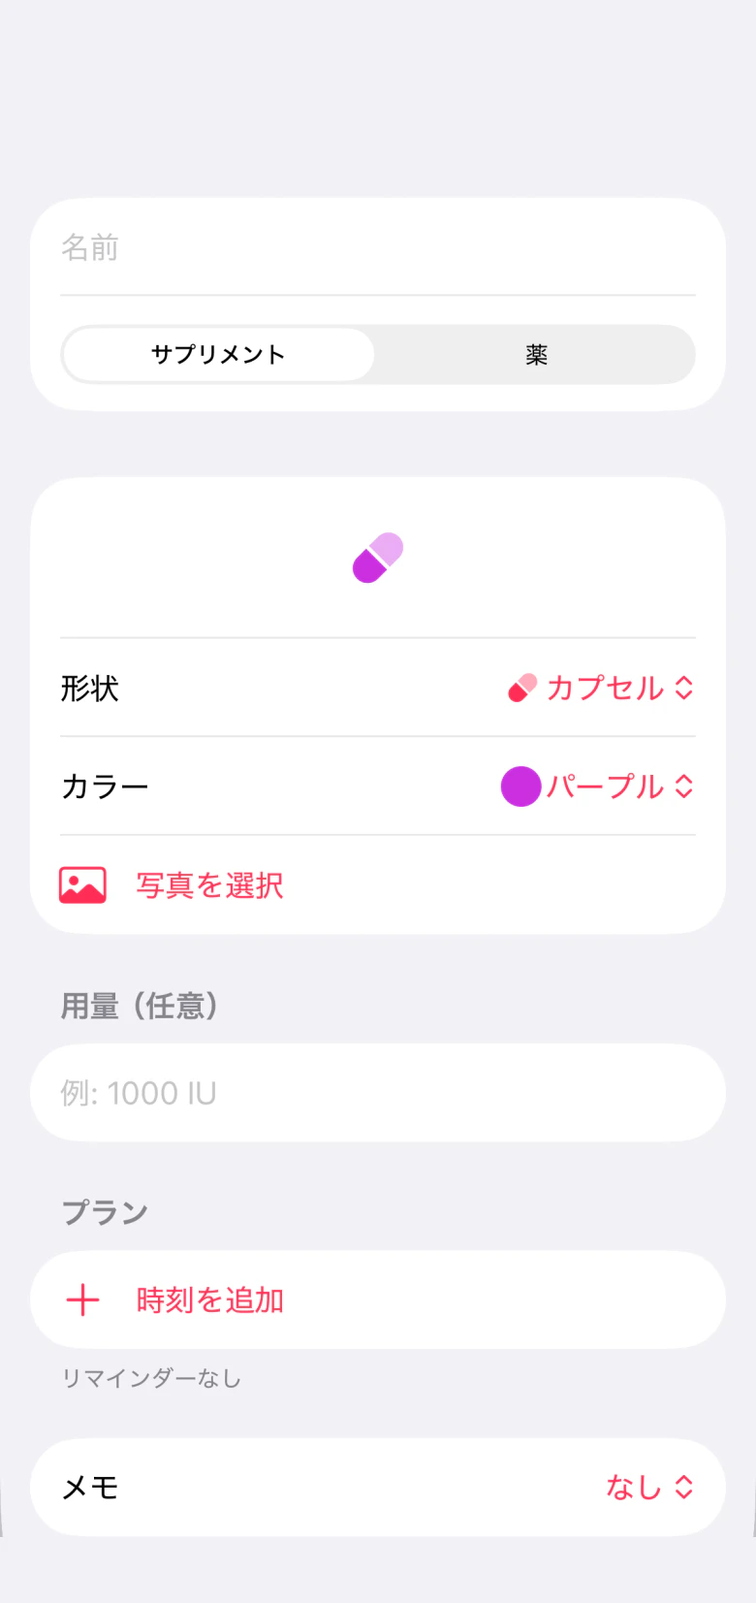
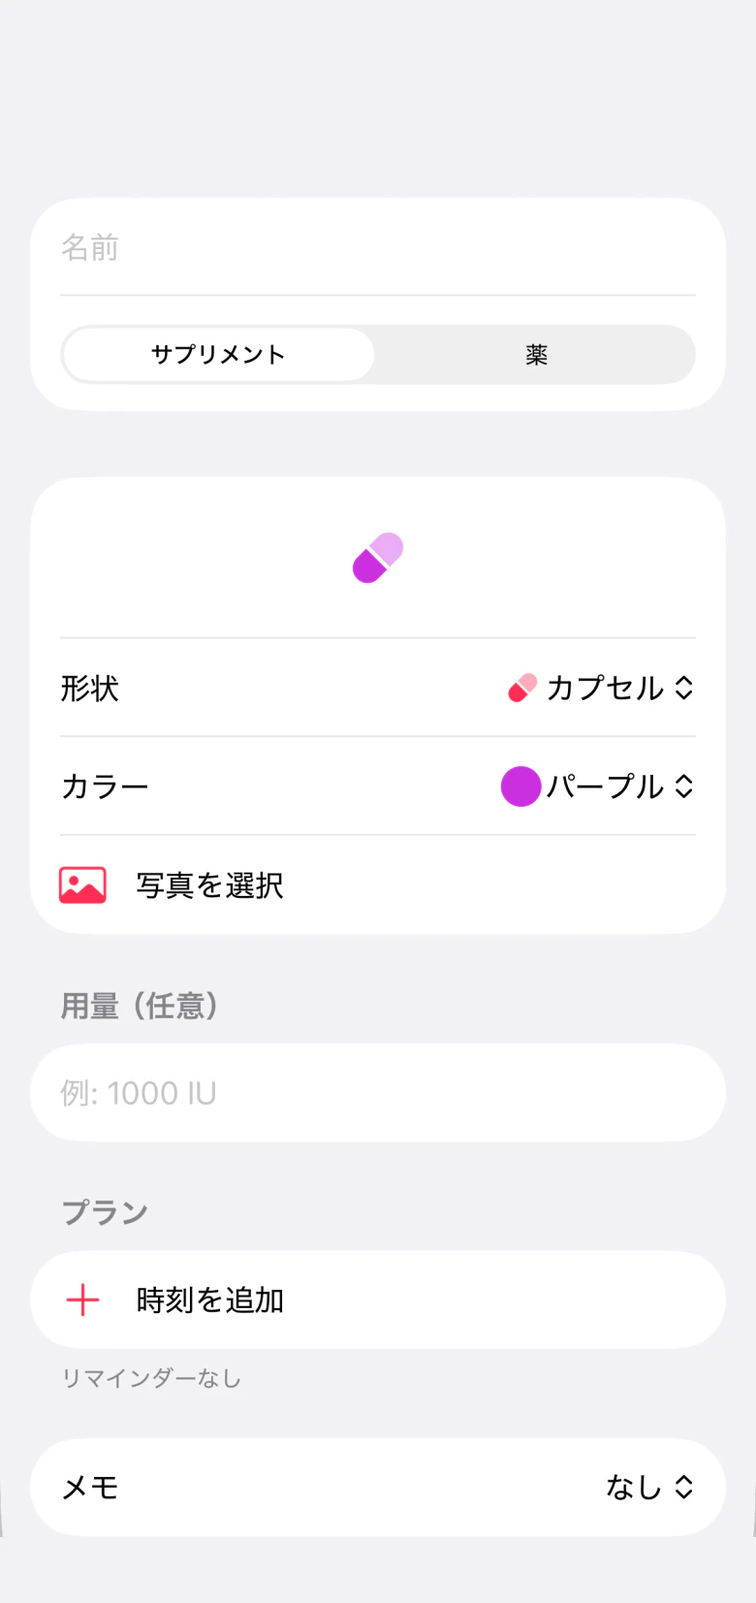
Match the site to the app after the row text and widget changes (#66)
- Draw the Today widget with the progress bar of the day (96 x 8 pt, no text) in place of the count. The columns end at the bottom edge.
- Rebuild the README pictures with site/social.py.
- Capture Settings and Add Item again in six languages: row text uses the text color, and Settings has no test notification row.

diff --git a/site/jp/index.html b/site/jp/index.html
@@ -60,7 +60,7 @@
 </div>
 </section>
 <div class="wrap features">
-<article class="feature" data-reveal><div class="feature-copy"><h2 class="enter"><span class="nb">時間にお知らせ、</span><span class="nb">今日をひと目で</span></h2><p class="lede enter d1">決めた時間にMaruがお知らせし、今日の様子はウィジェットでわかります。</p></div><div class="feature-stage"><div class="wallpaper"><div class="mock mock-widget enter d2" role="img" aria-label="Maruの「今日」ウィジェット。5件中2件が服用済みで、朝・昼・夜に分かれています。"><div class="m-widget"><div class="m-widget-top"><b>今日</b><b>2/5</b></div><div class="m-cols"><div class="m-col"><b>朝</b><span class="m-time">7:00</span><span class="m-caps"><i class="on"></i><i class="on"></i></span></div><div class="m-col"><b class="now">昼</b><span class="m-time">12:30</span><span class="m-caps"><i class=""></i></span></div><div class="m-col"><b>夜</b><span class="m-time">21:00</span><span class="m-caps"><i class=""></i><i class=""></i></span></div></div></div></div><div class="mock mock-notification enter d3" role="img" aria-label="ビタミンD3を飲む時間を知らせるMaruのリマインダー。"><div class="m-notif"><span class="m-app-icon"></span><span class="m-notif-text"><span class="m-notif-top"><b>服用の時間です</b><span class="m-now">今</span></span><span class="m-body">ビタミンD3</span></span></div></div></div></div></article>
+<article class="feature" data-reveal><div class="feature-copy"><h2 class="enter"><span class="nb">時間にお知らせ、</span><span class="nb">今日をひと目で</span></h2><p class="lede enter d1">決めた時間にMaruがお知らせし、今日の様子はウィジェットでわかります。</p></div><div class="feature-stage"><div class="wallpaper"><div class="mock mock-widget enter d2" role="img" aria-label="Maruの「今日」ウィジェット。5件中2件が服用済みで、朝・昼・夜に分かれています。"><div class="m-widget"><div class="m-widget-top"><b>今日</b><span class="m-bar"><i style="width:40%"></i></span></div><div class="m-cols"><div class="m-col"><b>朝</b><span class="m-time">7:00</span><span class="m-caps"><i class="on"></i><i class="on"></i></span></div><div class="m-col"><b class="now">昼</b><span class="m-time">12:30</span><span class="m-caps"><i class=""></i></span></div><div class="m-col"><b>夜</b><span class="m-time">21:00</span><span class="m-caps"><i class=""></i><i class=""></i></span></div></div></div></div><div class="mock mock-notification enter d3" role="img" aria-label="ビタミンD3を飲む時間を知らせるMaruのリマインダー。"><div class="m-notif"><span class="m-app-icon"></span><span class="m-notif-text"><span class="m-notif-top"><b>服用の時間です</b><span class="m-now">今</span></span><span class="m-body">ビタミンD3</span></span></div></div></div></div></article>
 <article class="feature flip" data-reveal><div class="feature-copy"><h2 class="enter">飲んだ記録がひと目で</h2><p class="lede enter d1">数か月分の記録も、項目ごとの過去7日間もすぐ見られます。</p></div><div class="feature-stage enter d2"><div class="device"><div class="device-screen"><img src="/shots/history-ja.webp" width="780" height="1696" loading="lazy" decoding="async" alt="Maruの「履歴」画面。これまでの日々のグラフと、各項目の過去7日間が表示されています。"></div><span class="island" aria-hidden="true"></span></div></div></article>
 <article class="feature" data-reveal><div class="feature-copy"><h2 class="enter">時間と量をすぐ確認</h2><p class="lede enter d1">時刻、量、過去7日間をまとめて確認できます。</p></div><div class="feature-stage enter d2"><div class="device"><div class="device-screen"><img src="/shots/detail-ja.webp" width="780" height="1696" loading="lazy" decoding="async" alt="Maruの項目のページ。時刻、量、過去7日間が表示されています。"></div><span class="island" aria-hidden="true"></span></div></div></article>
 <article class="feature flip" data-reveal><div class="feature-copy"><h2 class="enter"><span class="nb">いつものボトルを</span><span class="nb">アイコンに</span></h2><p class="lede enter d1">自分のボトルの写真を撮るか選ぶと、その項目のアイコンになります。背景はiPhoneやiPadの中で取り除けて、写真はデバイスの外に出ません。</p></div><div class="feature-stage enter d2"><div class="jars" role="img" aria-label="架空のラベルが付いたサプリメントのボトル3つ。切り抜いて、Maruの項目アイコンにしたところ。"><img src="/shots/jar-omega3.webp" width="372" height="480" loading="lazy" decoding="async" alt=""><img src="/shots/jar-vitd3.webp" width="407" height="480" loading="lazy" decoding="async" alt=""><img src="/shots/jar-magnesium.webp" width="413" height="480" loading="lazy" decoding="async" alt=""></div></div></article>

diff --git a/site/kr/index.html b/site/kr/index.html
@@ -60,7 +60,7 @@
 </div>
 </section>
 <div class="wrap features">
-<article class="feature" data-reveal><div class="feature-copy"><h2 class="enter">알림 받고, 오늘을 한눈에</h2><p class="lede enter d1">내가 정한 시간에 Maru가 알려 주고, 위젯에서 오늘 하루를 볼 수 있어요.</p></div><div class="feature-stage"><div class="wallpaper"><div class="mock mock-widget enter d2" role="img" aria-label="Maru의 오늘 위젯. 5개 중 2개를 복용했고 아침, 점심, 저녁으로 나뉘어 있어요."><div class="m-widget"><div class="m-widget-top"><b>오늘</b><b>2/5</b></div><div class="m-cols"><div class="m-col"><b>아침</b><span class="m-time">오전 7:00</span><span class="m-caps"><i class="on"></i><i class="on"></i></span></div><div class="m-col"><b class="now">점심</b><span class="m-time">오후 12:30</span><span class="m-caps"><i class=""></i></span></div><div class="m-col"><b>저녁</b><span class="m-time">오후 9:00</span><span class="m-caps"><i class=""></i><i class=""></i></span></div></div></div></div><div class="mock mock-notification enter d3" role="img" aria-label="비타민 D3 먹을 시간을 알리는 Maru 미리 알림."><div class="m-notif"><span class="m-app-icon"></span><span class="m-notif-text"><span class="m-notif-top"><b>복용할 시간</b><span class="m-now">지금</span></span><span class="m-body">비타민 D3</span></span></div></div></div></div></article>
+<article class="feature" data-reveal><div class="feature-copy"><h2 class="enter">알림 받고, 오늘을 한눈에</h2><p class="lede enter d1">내가 정한 시간에 Maru가 알려 주고, 위젯에서 오늘 하루를 볼 수 있어요.</p></div><div class="feature-stage"><div class="wallpaper"><div class="mock mock-widget enter d2" role="img" aria-label="Maru의 오늘 위젯. 5개 중 2개를 복용했고 아침, 점심, 저녁으로 나뉘어 있어요."><div class="m-widget"><div class="m-widget-top"><b>오늘</b><span class="m-bar"><i style="width:40%"></i></span></div><div class="m-cols"><div class="m-col"><b>아침</b><span class="m-time">오전 7:00</span><span class="m-caps"><i class="on"></i><i class="on"></i></span></div><div class="m-col"><b class="now">점심</b><span class="m-time">오후 12:30</span><span class="m-caps"><i class=""></i></span></div><div class="m-col"><b>저녁</b><span class="m-time">오후 9:00</span><span class="m-caps"><i class=""></i><i class=""></i></span></div></div></div></div><div class="mock mock-notification enter d3" role="img" aria-label="비타민 D3 먹을 시간을 알리는 Maru 미리 알림."><div class="m-notif"><span class="m-app-icon"></span><span class="m-notif-text"><span class="m-notif-top"><b>복용할 시간</b><span class="m-now">지금</span></span><span class="m-body">비타민 D3</span></span></div></div></div></div></article>
 <article class="feature flip" data-reveal><div class="feature-copy"><h2 class="enter">먹은 기록을 한눈에</h2><p class="lede enter d1">몇 달 치 기록도, 항목별 최근 7일도 바로 볼 수 있어요.</p></div><div class="feature-stage enter d2"><div class="device"><div class="device-screen"><img src="/shots/history-ko.webp" width="780" height="1696" loading="lazy" decoding="async" alt="지난 날들의 그래프와 항목별 최근 7일이 보이는 Maru의 내역 화면."></div><span class="island" aria-hidden="true"></span></div></div></article>
 <article class="feature" data-reveal><div class="feature-copy"><h2 class="enter">시간과 용량을 한눈에</h2><p class="lede enter d1">시간, 용량, 최근 7일을 한곳에서 확인해요.</p></div><div class="feature-stage enter d2"><div class="device"><div class="device-screen"><img src="/shots/detail-ko.webp" width="780" height="1696" loading="lazy" decoding="async" alt="시간, 용량, 최근 7일이 보이는 Maru의 항목 페이지."></div><span class="island" aria-hidden="true"></span></div></div></article>
 <article class="feature flip" data-reveal><div class="feature-copy"><h2 class="enter"><span class="nb">내 약통을 그대로</span> <span class="nb">아이콘으로</span></h2><p class="lede enter d1">내 약통 사진을 찍거나 고르면 그 항목의 아이콘이 돼요. 배경은 iPhone이나 iPad 안에서 지울 수 있고, 사진은 기기 밖으로 나가지 않아요.</p></div><div class="feature-stage enter d2"><div class="jars" role="img" aria-label="가상의 라벨을 붙인 영양제 통 세 개를 오려 Maru의 항목 아이콘으로 쓴 모습."><img src="/shots/jar-omega3.webp" width="372" height="480" loading="lazy" decoding="async" alt=""><img src="/shots/jar-vitd3.webp" width="407" height="480" loading="lazy" decoding="async" alt=""><img src="/shots/jar-magnesium.webp" width="413" height="480" loading="lazy" decoding="async" alt=""></div></div></article>

diff --git a/site/cn/index.html b/site/cn/index.html
@@ -60,7 +60,7 @@
 </div>
 </section>
 <div class="wrap features">
-<article class="feature" data-reveal><div class="feature-copy"><h2 class="enter">到点提醒，一眼看全</h2><p class="lede enter d1">Maru 按你定的时间提醒，小组件上能看到今天的情况。</p></div><div class="feature-stage"><div class="wallpaper"><div class="mock mock-widget enter d2" role="img" aria-label="Maru 的“今天”小组件：5 项里已服用 2 项，分为早上、中午和晚上。"><div class="m-widget"><div class="m-widget-top"><b>今天</b><b>2/5</b></div><div class="m-cols"><div class="m-col"><b>早上</b><span class="m-time">7:00</span><span class="m-caps"><i class="on"></i><i class="on"></i></span></div><div class="m-col"><b class="now">中午</b><span class="m-time">12:30</span><span class="m-caps"><i class=""></i></span></div><div class="m-col"><b>晚上</b><span class="m-time">21:00</span><span class="m-caps"><i class=""></i><i class=""></i></span></div></div></div></div><div class="mock mock-notification enter d3" role="img" aria-label="Maru 的提醒：该吃维生素 D3 了。"><div class="m-notif"><span class="m-app-icon"></span><span class="m-notif-text"><span class="m-notif-top"><b>该服用了</b><span class="m-now">现在</span></span><span class="m-body">维生素 D3</span></span></div></div></div></div></article>
+<article class="feature" data-reveal><div class="feature-copy"><h2 class="enter">到点提醒，一眼看全</h2><p class="lede enter d1">Maru 按你定的时间提醒，小组件上能看到今天的情况。</p></div><div class="feature-stage"><div class="wallpaper"><div class="mock mock-widget enter d2" role="img" aria-label="Maru 的“今天”小组件：5 项里已服用 2 项，分为早上、中午和晚上。"><div class="m-widget"><div class="m-widget-top"><b>今天</b><span class="m-bar"><i style="width:40%"></i></span></div><div class="m-cols"><div class="m-col"><b>早上</b><span class="m-time">7:00</span><span class="m-caps"><i class="on"></i><i class="on"></i></span></div><div class="m-col"><b class="now">中午</b><span class="m-time">12:30</span><span class="m-caps"><i class=""></i></span></div><div class="m-col"><b>晚上</b><span class="m-time">21:00</span><span class="m-caps"><i class=""></i><i class=""></i></span></div></div></div></div><div class="mock mock-notification enter d3" role="img" aria-label="Maru 的提醒：该吃维生素 D3 了。"><div class="m-notif"><span class="m-app-icon"></span><span class="m-notif-text"><span class="m-notif-top"><b>该服用了</b><span class="m-now">现在</span></span><span class="m-body">维生素 D3</span></span></div></div></div></div></article>
 <article class="feature flip" data-reveal><div class="feature-copy"><h2 class="enter">吃过什么，一目了然</h2><p class="lede enter d1">几个月的记录一眼看完，每个项目的最近 7 天也在这里。</p></div><div class="feature-stage enter d2"><div class="device"><div class="device-screen"><img src="/shots/history-zh-Hans.webp" width="780" height="1696" loading="lazy" decoding="async" alt="Maru 的“历史记录”界面，有过去每一天的图表和每个项目最近 7 天的记录。"></div><span class="island" aria-hidden="true"></span></div></div></article>
 <article class="feature" data-reveal><div class="feature-copy"><h2 class="enter">时间和用量，一页看清</h2><p class="lede enter d1">时间、用量和最近 7 天，都在这一页。</p></div><div class="feature-stage enter d2"><div class="device"><div class="device-screen"><img src="/shots/detail-zh-Hans.webp" width="780" height="1696" loading="lazy" decoding="async" alt="Maru 中一个项目的页面，有时间、用量和最近 7 天的记录。"></div><span class="island" aria-hidden="true"></span></div></div></article>
 <article class="feature flip" data-reveal><div class="feature-copy"><h2 class="enter"><span class="nb">你的药瓶，</span><span class="nb">就是图标</span></h2><p class="lede enter d1">拍一张或选一张自己药瓶的照片，它就成了这个项目的图标。Maru 可以直接在你的 iPhone 或 iPad 上去掉背景，照片只留在你的设备里。</p></div><div class="feature-stage enter d2"><div class="jars" role="img" aria-label="三个贴着虚构标签的保健品瓶，抠图后成为 Maru 里的项目图标。"><img src="/shots/jar-omega3.webp" width="372" height="480" loading="lazy" decoding="async" alt=""><img src="/shots/jar-vitd3.webp" width="407" height="480" loading="lazy" decoding="async" alt=""><img src="/shots/jar-magnesium.webp" width="413" height="480" loading="lazy" decoding="async" alt=""></div></div></article>

diff --git a/site/de/index.html b/site/de/index.html
@@ -60,7 +60,7 @@
 </div>
 </section>
 <div class="wrap features">
-<article class="feature" data-reveal><div class="feature-copy"><h2 class="enter">Erinnerung und Überblick</h2><p class="lede enter d1">Maru erinnert dich zu deinen Zeiten, und das Widget zeigt deinen Tag.</p></div><div class="feature-stage"><div class="wallpaper"><div class="mock mock-widget enter d2" role="img" aria-label="Das Maru-Widget „Heute“: 2 von 5 eingenommen, mit Morgens, Mittags und Abends."><div class="m-widget"><div class="m-widget-top"><b>Heute</b><b>2 von 5</b></div><div class="m-cols"><div class="m-col"><b>Morgens</b><span class="m-time">7:00</span><span class="m-caps"><i class="on"></i><i class="on"></i></span></div><div class="m-col"><b class="now">Mittags</b><span class="m-time">12:30</span><span class="m-caps"><i class=""></i></span></div><div class="m-col"><b>Abends</b><span class="m-time">21:00</span><span class="m-caps"><i class=""></i><i class=""></i></span></div></div></div></div><div class="mock mock-notification enter d3" role="img" aria-label="Eine Erinnerung von Maru an Vitamin D3."><div class="m-notif"><span class="m-app-icon"></span><span class="m-notif-text"><span class="m-notif-top"><b>Zeit zur Einnahme</b><span class="m-now">Jetzt</span></span><span class="m-body">Vitamin D3</span></span></div></div></div></div></article>
+<article class="feature" data-reveal><div class="feature-copy"><h2 class="enter">Erinnerung und Überblick</h2><p class="lede enter d1">Maru erinnert dich zu deinen Zeiten, und das Widget zeigt deinen Tag.</p></div><div class="feature-stage"><div class="wallpaper"><div class="mock mock-widget enter d2" role="img" aria-label="Das Maru-Widget „Heute“: 2 von 5 eingenommen, mit Morgens, Mittags und Abends."><div class="m-widget"><div class="m-widget-top"><b>Heute</b><span class="m-bar"><i style="width:40%"></i></span></div><div class="m-cols"><div class="m-col"><b>Morgens</b><span class="m-time">7:00</span><span class="m-caps"><i class="on"></i><i class="on"></i></span></div><div class="m-col"><b class="now">Mittags</b><span class="m-time">12:30</span><span class="m-caps"><i class=""></i></span></div><div class="m-col"><b>Abends</b><span class="m-time">21:00</span><span class="m-caps"><i class=""></i><i class=""></i></span></div></div></div></div><div class="mock mock-notification enter d3" role="img" aria-label="Eine Erinnerung von Maru an Vitamin D3."><div class="m-notif"><span class="m-app-icon"></span><span class="m-notif-text"><span class="m-notif-top"><b>Zeit zur Einnahme</b><span class="m-now">Jetzt</span></span><span class="m-body">Vitamin D3</span></span></div></div></div></div></article>
 <article class="feature flip" data-reveal><div class="feature-copy"><h2 class="enter">Sieh, was du genommen hast</h2><p class="lede enter d1">Ganze Monate auf einen Blick, dazu die letzten sieben Tage jedes Eintrags.</p></div><div class="feature-stage enter d2"><div class="device"><div class="device-screen"><img src="/shots/history-de.webp" width="780" height="1696" loading="lazy" decoding="async" alt="Die Ansicht „Verlauf“ in Maru mit einer Grafik der vergangenen Tage und den letzten 7 Tagen jedes Eintrags."></div><span class="island" aria-hidden="true"></span></div></div></article>
 <article class="feature" data-reveal><div class="feature-copy"><h2 class="enter">Zeiten und Mengen im Blick</h2><p class="lede enter d1">Dort stehen die Zeiten, die Menge und die letzten sieben Tage.</p></div><div class="feature-stage enter d2"><div class="device"><div class="device-screen"><img src="/shots/detail-de.webp" width="780" height="1696" loading="lazy" decoding="async" alt="Die Seite eines Eintrags in Maru mit Zeiten, Menge und den letzten 7 Tagen."></div><span class="island" aria-hidden="true"></span></div></div></article>
 <article class="feature flip" data-reveal><div class="feature-copy"><h2 class="enter"><span class="nb">Deine Dose</span> <span class="nb">als Symbol</span></h2><p class="lede enter d1">Mach oder wähle ein Foto deiner eigenen Dose, und es wird zum Symbol des Eintrags. Maru kann den Hintergrund auf deinem iPhone oder iPad entfernen, und das Foto bleibt auf deinem Gerät.</p></div><div class="feature-stage enter d2"><div class="jars" role="img" aria-label="Drei Nahrungsergänzungsdosen mit erfundenen Etiketten, freigestellt als Symbole von Einträgen in Maru."><img src="/shots/jar-omega3.webp" width="372" height="480" loading="lazy" decoding="async" alt=""><img src="/shots/jar-vitd3.webp" width="407" height="480" loading="lazy" decoding="async" alt=""><img src="/shots/jar-magnesium.webp" width="413" height="480" loading="lazy" decoding="async" alt=""></div></div></article>

diff --git a/site/es/index.html b/site/es/index.html
@@ -60,7 +60,7 @@
 </div>
 </section>
 <div class="wrap features">
-<article class="feature" data-reveal><div class="feature-copy"><h2 class="enter">Recordatorios y tu día de un vistazo</h2><p class="lede enter d1">Maru te avisa a tus horas, y el widget muestra tu día.</p></div><div class="feature-stage"><div class="wallpaper"><div class="mock mock-widget enter d2" role="img" aria-label="El widget Hoy de Maru: 2 de 5 tomados, con Mañana, Mediodía y Noche."><div class="m-widget"><div class="m-widget-top"><b>Hoy</b><b>2 de 5</b></div><div class="m-cols"><div class="m-col"><b>Mañana</b><span class="m-time">7:00</span><span class="m-caps"><i class="on"></i><i class="on"></i></span></div><div class="m-col"><b class="now">Mediodía</b><span class="m-time">12:30</span><span class="m-caps"><i class=""></i></span></div><div class="m-col"><b>Noche</b><span class="m-time">21:00</span><span class="m-caps"><i class=""></i><i class=""></i></span></div></div></div></div><div class="mock mock-notification enter d3" role="img" aria-label="Un recordatorio de Maru para tomar la vitamina D3."><div class="m-notif"><span class="m-app-icon"></span><span class="m-notif-text"><span class="m-notif-top"><b>Hora de tomar</b><span class="m-now">ahora</span></span><span class="m-body">Vitamina D3</span></span></div></div></div></div></article>
+<article class="feature" data-reveal><div class="feature-copy"><h2 class="enter">Recordatorios y tu día de un vistazo</h2><p class="lede enter d1">Maru te avisa a tus horas, y el widget muestra tu día.</p></div><div class="feature-stage"><div class="wallpaper"><div class="mock mock-widget enter d2" role="img" aria-label="El widget Hoy de Maru: 2 de 5 tomados, con Mañana, Mediodía y Noche."><div class="m-widget"><div class="m-widget-top"><b>Hoy</b><span class="m-bar"><i style="width:40%"></i></span></div><div class="m-cols"><div class="m-col"><b>Mañana</b><span class="m-time">7:00</span><span class="m-caps"><i class="on"></i><i class="on"></i></span></div><div class="m-col"><b class="now">Mediodía</b><span class="m-time">12:30</span><span class="m-caps"><i class=""></i></span></div><div class="m-col"><b>Noche</b><span class="m-time">21:00</span><span class="m-caps"><i class=""></i><i class=""></i></span></div></div></div></div><div class="mock mock-notification enter d3" role="img" aria-label="Un recordatorio de Maru para tomar la vitamina D3."><div class="m-notif"><span class="m-app-icon"></span><span class="m-notif-text"><span class="m-notif-top"><b>Hora de tomar</b><span class="m-now">ahora</span></span><span class="m-body">Vitamina D3</span></span></div></div></div></div></article>
 <article class="feature flip" data-reveal><div class="feature-copy"><h2 class="enter">Mira lo que tomaste</h2><p class="lede enter d1">Meses enteros de un vistazo, y los últimos siete días de cada elemento.</p></div><div class="feature-stage enter d2"><div class="device"><div class="device-screen"><img src="/shots/history-es.webp" width="780" height="1696" loading="lazy" decoding="async" alt="La pantalla Historial de Maru con un gráfico de los días pasados y los últimos 7 días de cada elemento."></div><span class="island" aria-hidden="true"></span></div></div></article>
 <article class="feature" data-reveal><div class="feature-copy"><h2 class="enter">Consulta horas y cantidades</h2><p class="lede enter d1">Consulta sus horas, su cantidad y sus últimos siete días.</p></div><div class="feature-stage enter d2"><div class="device"><div class="device-screen"><img src="/shots/detail-es.webp" width="780" height="1696" loading="lazy" decoding="async" alt="La página de un elemento en Maru con sus horas, su cantidad y sus últimos 7 días."></div><span class="island" aria-hidden="true"></span></div></div></article>
 <article class="feature flip" data-reveal><div class="feature-copy"><h2 class="enter"><span class="nb">Tu frasco,</span> <span class="nb">tu icono</span></h2><p class="lede enter d1">Haz o elige una foto de tu propio frasco y será el icono del elemento. Maru puede quitar el fondo en tu iPhone o iPad, y la foto se queda en tu dispositivo.</p></div><div class="feature-stage enter d2"><div class="jars" role="img" aria-label="Tres frascos de suplementos con etiquetas inventadas, recortados como iconos de elementos en Maru."><img src="/shots/jar-omega3.webp" width="372" height="480" loading="lazy" decoding="async" alt=""><img src="/shots/jar-vitd3.webp" width="407" height="480" loading="lazy" decoding="async" alt=""><img src="/shots/jar-magnesium.webp" width="413" height="480" loading="lazy" decoding="async" alt=""></div></div></article>

diff --git a/site/index.html b/site/index.html
@@ -61,7 +61,7 @@
 </div>
 </section>
 <div class="wrap features">
-<article class="feature" data-reveal><div class="feature-copy"><h2 class="enter">Reminders and today at a glance</h2><p class="lede enter d1">Maru reminds you at your times, and the widget shows your day.</p></div><div class="feature-stage"><div class="wallpaper"><div class="mock mock-widget enter d2" role="img" aria-label="The Maru Today widget: 2 of 5 taken, with Morning, Noon, and Evening."><div class="m-widget"><div class="m-widget-top"><b>Today</b><b>2 of 5</b></div><div class="m-cols"><div class="m-col"><b>Morning</b><span class="m-time">7:00 AM</span><span class="m-caps"><i class="on"></i><i class="on"></i></span></div><div class="m-col"><b class="now">Noon</b><span class="m-time">12:30 PM</span><span class="m-caps"><i class=""></i></span></div><div class="m-col"><b>Evening</b><span class="m-time">9:00 PM</span><span class="m-caps"><i class=""></i><i class=""></i></span></div></div></div></div><div class="mock mock-notification enter d3" role="img" aria-label="A Maru reminder to take Vitamin D3."><div class="m-notif"><span class="m-app-icon"></span><span class="m-notif-text"><span class="m-notif-top"><b>Time to take</b><span class="m-now">now</span></span><span class="m-body">Vitamin D3</span></span></div></div></div></div></article>
+<article class="feature" data-reveal><div class="feature-copy"><h2 class="enter">Reminders and today at a glance</h2><p class="lede enter d1">Maru reminds you at your times, and the widget shows your day.</p></div><div class="feature-stage"><div class="wallpaper"><div class="mock mock-widget enter d2" role="img" aria-label="The Maru Today widget: 2 of 5 taken, with Morning, Noon, and Evening."><div class="m-widget"><div class="m-widget-top"><b>Today</b><span class="m-bar"><i style="width:40%"></i></span></div><div class="m-cols"><div class="m-col"><b>Morning</b><span class="m-time">7:00 AM</span><span class="m-caps"><i class="on"></i><i class="on"></i></span></div><div class="m-col"><b class="now">Noon</b><span class="m-time">12:30 PM</span><span class="m-caps"><i class=""></i></span></div><div class="m-col"><b>Evening</b><span class="m-time">9:00 PM</span><span class="m-caps"><i class=""></i><i class=""></i></span></div></div></div></div><div class="mock mock-notification enter d3" role="img" aria-label="A Maru reminder to take Vitamin D3."><div class="m-notif"><span class="m-app-icon"></span><span class="m-notif-text"><span class="m-notif-top"><b>Time to take</b><span class="m-now">now</span></span><span class="m-body">Vitamin D3</span></span></div></div></div></div></article>
 <article class="feature flip" data-reveal><div class="feature-copy"><h2 class="enter">See what you took</h2><p class="lede enter d1">See months at a glance, and the last seven days of every item.</p></div><div class="feature-stage enter d2"><div class="device"><div class="device-screen"><img src="/shots/history-en.webp" width="780" height="1696" loading="lazy" decoding="async" alt="The History screen of Maru with a graph of past days and the last 7 days of each item."></div><span class="island" aria-hidden="true"></span></div></div></article>
 <article class="feature" data-reveal><div class="feature-copy"><h2 class="enter">Check times and amounts</h2><p class="lede enter d1">See its times, its amount, and its last seven days.</p></div><div class="feature-stage enter d2"><div class="device"><div class="device-screen"><img src="/shots/detail-en.webp" width="780" height="1696" loading="lazy" decoding="async" alt="The page of one item in Maru with its times, its amount, and its last 7 days."></div><span class="island" aria-hidden="true"></span></div></div></article>
 <article class="feature flip" data-reveal><div class="feature-copy"><h2 class="enter">Your bottle, your icon</h2><p class="lede enter d1">Take or choose a photo of your own bottle, and it becomes the item icon. Maru can remove the background on your iPhone or iPad, and the photo stays on your device.</p></div><div class="feature-stage enter d2"><div class="jars" role="img" aria-label="Three supplement jars with made-up labels, cut out as item icons in Maru."><img src="/shots/jar-omega3.webp" width="372" height="480" loading="lazy" decoding="async" alt=""><img src="/shots/jar-vitd3.webp" width="407" height="480" loading="lazy" decoding="async" alt=""><img src="/shots/jar-magnesium.webp" width="413" height="480" loading="lazy" decoding="async" alt=""></div></div></article>

diff --git a/site/style.css b/site/style.css
@@ -32,6 +32,7 @@
   --app-label: #000000;
   --app-label-2: #8A8A8E;
   --app-widget: #FFFFFF;
+  --app-fill: rgba(120, 120, 128, 0.2);
   --app-cap-off: #E5E5EA;
   --app-cap-line: #C7C7CC;
   --app-cap-shine: rgba(255, 255, 255, 0.32);
@@ -469,11 +470,15 @@ code { font: var(--fs-code) var(--font-mono); background: var(--fill-3); padding
   background: var(--wallpaper); box-shadow: var(--hairline);
 }
 /* The medium Today widget (TodayWidget, CapsuleMark). */
-.m-widget { width: calc(349.33 * var(--pt)); height: calc(164 * var(--pt)); padding: calc(17.67 * var(--pt)); background: var(--app-widget); border-radius: calc(28 * var(--pt)); box-shadow: var(--shadow-float); }
-.m-widget-top { display: flex; justify-content: space-between; gap: calc(8 * var(--pt)); font-size: calc(17 * var(--pt)); line-height: calc(22 * var(--pt)); }
+.m-widget { width: calc(349.33 * var(--pt)); height: calc(164 * var(--pt)); padding: calc(17.67 * var(--pt)); display: flex; flex-direction: column; justify-content: space-between; background: var(--app-widget); border-radius: calc(28 * var(--pt)); box-shadow: var(--shadow-float); }
+.m-widget-top { display: flex; justify-content: space-between; align-items: center; gap: calc(8 * var(--pt)); font-size: calc(17 * var(--pt)); line-height: calc(22 * var(--pt)); }
+/* The progress bar of the day: a track of 96 x 8 pt in the system fill, and the tint for the share taken. No border and no text. */
+.m-bar { flex: none; width: calc(96 * var(--pt)); height: calc(8 * var(--pt)); border-radius: var(--radius-full); background: var(--app-fill); overflow: hidden; }
+.m-bar i { display: block; height: 100%; min-width: calc(8 * var(--pt)); border-radius: var(--radius-full); background: var(--app-tint); }
 .m-widget-top b, .m-col b { font-weight: var(--fw-semibold); }
-.m-widget-top b + b, .m-time { color: var(--app-label-2); }
-.m-cols { display: flex; gap: calc(8 * var(--pt)); margin-top: calc(7.33 * var(--pt)); }
+.m-time { color: var(--app-label-2); }
+/* The columns end at the bottom edge, so the space under the capsules equals the space over the title. */
+.m-cols { display: flex; gap: calc(8 * var(--pt)); }
 .m-col { flex: 1; min-width: 0; display: grid; align-content: start; }
 .m-col b { font-size: calc(15 * var(--pt)); line-height: calc(20 * var(--pt)); white-space: nowrap; }
 .m-col b.now { color: var(--app-tint); }

diff --git a/site/mock.py b/site/mock.py
@@ -31,7 +31,7 @@ def clock(t, hour, minute):
 
 
 def widget(t):
-    """The medium Today widget: the count, and each part of the day with its time and its capsules."""
+    """The medium Today widget: the progress bar of the day, and each part of the day with its time and its capsules."""
     taken = {0, 1}
     cols = ""
     for p in range(3):
@@ -40,9 +40,10 @@ def widget(t):
         now = ' class="now"' if p == 1 else ""
         cols += (f'<div class="m-col"><b{now}>{e(t["parts"][p])}</b>'
                  f'<span class="m-time">{e(clock(t, *ITEMS[mine[0]]["at"]))}</span><span class="m-caps">{caps}</span></div>')
-    count = t["of"].format(a=len(taken), b=len(ITEMS))
-    return (f'<div class="m-widget"><div class="m-widget-top"><b>{e(t["today"])}</b><b>{e(count)}</b></div>'
-            f'<div class="m-cols">{cols}</div></div>')
+    # The bar has no text: its fill is the share of the doses that are taken (DayProgressBar).
+    share = 100 * len(taken) / len(ITEMS)
+    return (f'<div class="m-widget"><div class="m-widget-top"><b>{e(t["today"])}</b>'
+            f'<span class="m-bar"><i style="width:{share:g}%"></i></span></div><div class="m-cols">{cols}</div></div>')
 
 
 def reminder(t):

diff --git a/site/social.py b/site/social.py
@@ -149,6 +149,7 @@ DARK_TOKENS = """
     --app-label: #FFFFFF;
     --app-label-2: #8D8D93;
     --app-widget: #1C1C1E;
+    --app-fill: rgba(120, 120, 128, 0.36);
     --app-cap-off: #2C2C2E;
     --app-cap-line: #48484A;
     --app-banner: rgba(255, 255, 255, 0.14);
